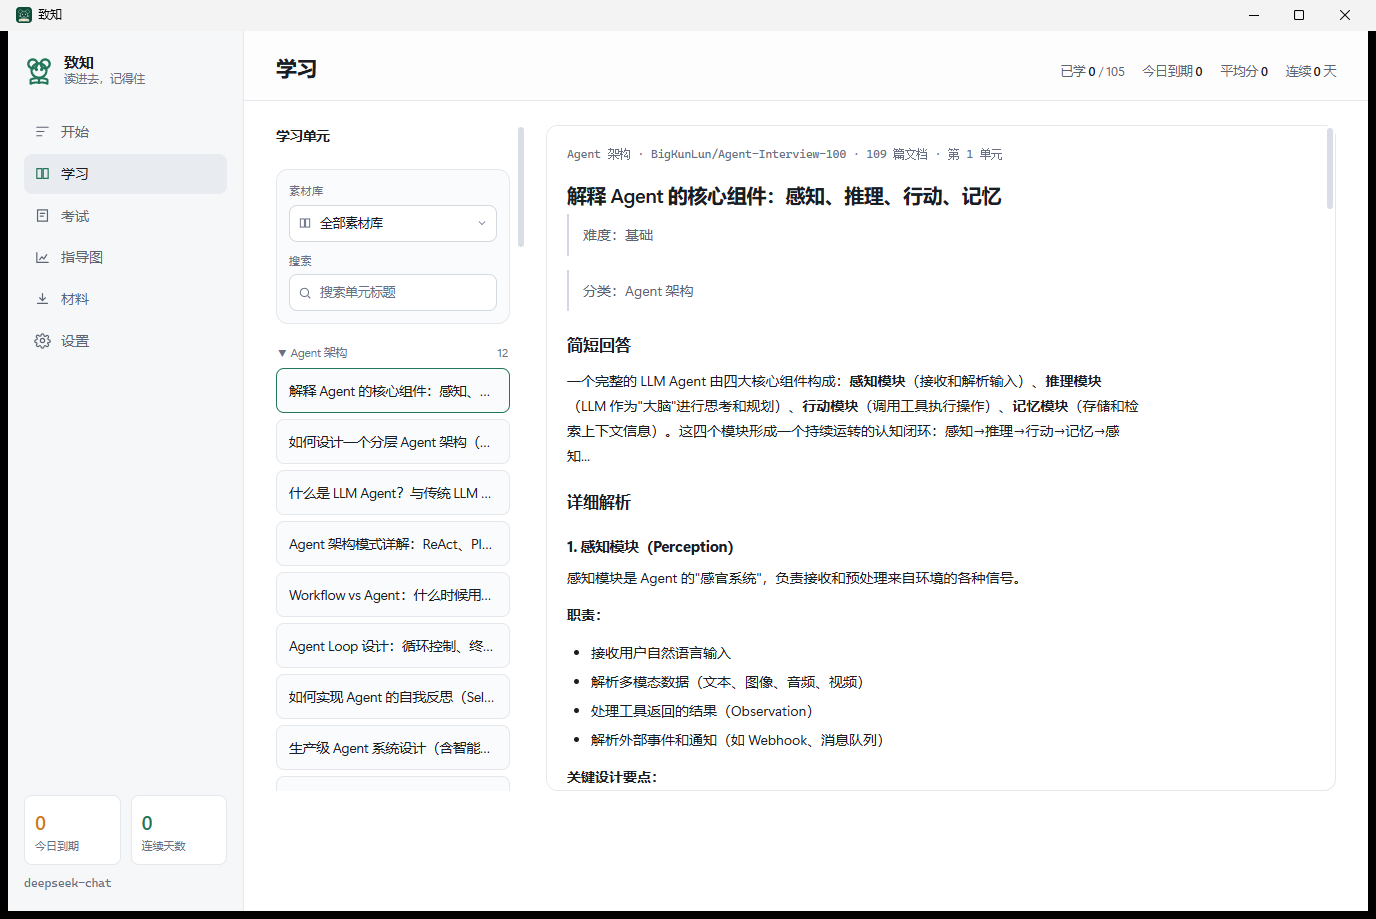
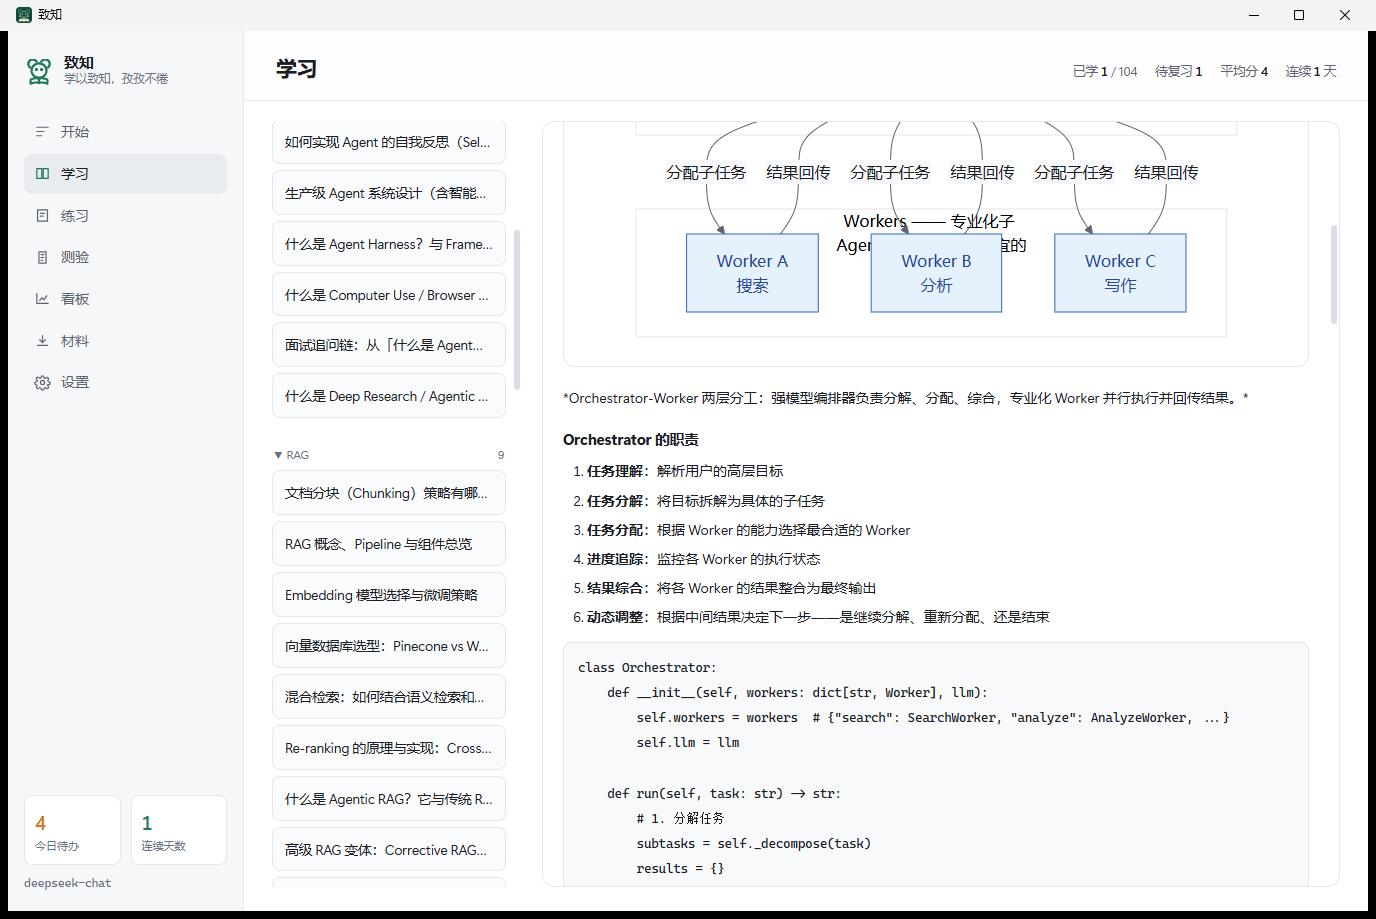
v1.0.4：学习页占满窗口高度、正文居中

diff --git a/src/styles.css b/src/styles.css
@@ -403,19 +403,38 @@ input::placeholder, textarea::placeholder { color: var(--fg-dim); }
 
 /* 学习卡 */
 
-/* 目录与正文各自滚动，长文章不会把目录顶走 */
+/* 学习页占满整个可用高度：两栏各自滚动，底下不留空白 */
+.view[data-view="learn"] {
+  padding: 20px 28px 24px;
+  overflow: hidden;
+}
+
+.view[data-view="learn"].is-active { display: flex; flex-direction: column; }
+
+.view[data-view="learn"] .grid-study {
+  flex: 1;
+  min-height: 0;
+  align-items: stretch;
+}
+
 .study-side {
   display: flex;
   flex-direction: column;
   gap: 8px;
-  max-height: calc(100vh - 214px);
+  min-height: 0;
   overflow-y: auto;
   padding-right: 6px;
 }
+
 .study-card {
-  min-height: 420px;
-  max-height: calc(100vh - 214px);
+  min-height: 0;
   overflow-y: auto;
+}
+
+/* 正文居中成一条阅读栏，窗口宽了就居中、窄了就跟着缩 */
+.study-inner {
+  max-width: min(760px, 100%);
+  margin: 0 auto;
 }
 
 /* 学习页工具条：素材库切换 + 搜索，收在一个浅色工具面板里 */
@@ -572,9 +591,8 @@ input::placeholder, textarea::placeholder { color: var(--fg-dim); }
   white-space: pre;
 }
 
-/* 学习页：完整讲解的 Markdown 排版 */
+/* 学习页：完整讲解的 Markdown 排版（宽度交给 .study-inner 控制） */
 .unit-body {
-  max-width: 76ch;
   font-size: 14px;
   line-height: 1.8;
   color: var(--fg);

diff --git a/README.md b/README.md
@@ -57,6 +57,15 @@
 
 没有填写也能打开软件：材料可以正常导入整理，学习和看板都能用，只是自动出题与评分不可用，界面会说明原因。
 
+### 首次运行被拦截怎么办
+
+程序没有代码签名证书，从浏览器下载后 Windows 会弹「Windows 已保护你的电脑」。两种处理方式，任选其一：
+
+1. 弹窗里点「更多信息」→「仍要运行」；
+2. 或者右键 `Zhizhi.exe` → 属性 → 勾选「解除锁定」→ 确定，之后双击即可直接运行。
+
+也可以在 PowerShell 里执行 `Unblock-File .\Zhizhi.exe`（解除锁定后会去掉下载标记，不再提示）。
+
 ## 复习怎么排
 
 每次作答后，软件会按记忆曲线算出这张卡下次该复习的日期：答得越好，间隔拉得越久；答错或没把握，很快就再见到它。每天只需要清掉当天该做的部分，不必自己规划。
